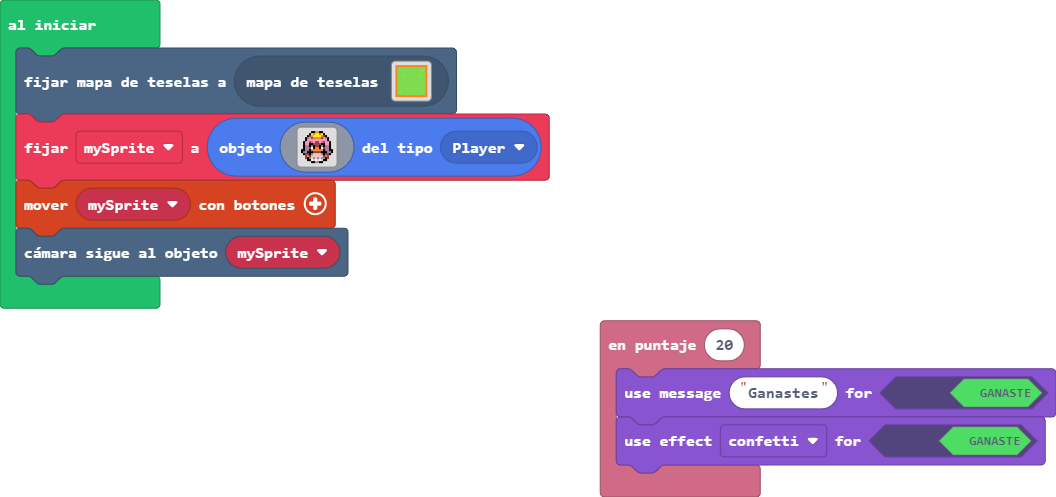
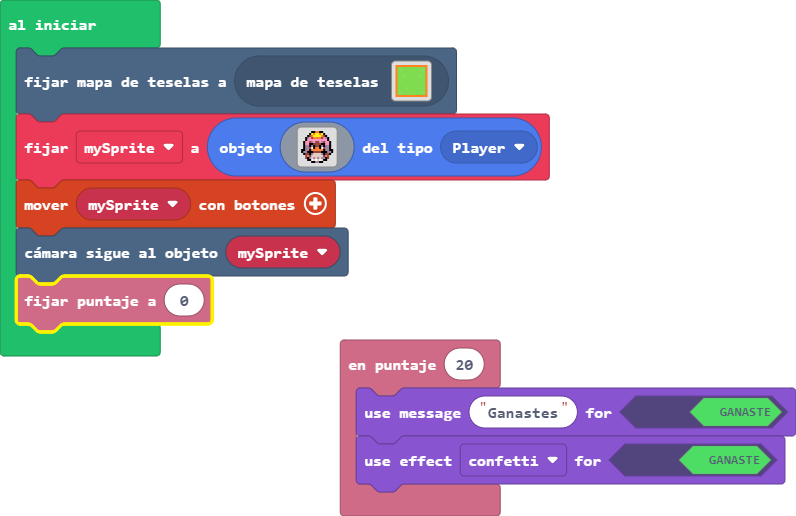
..

diff --git a/tilemap.g.ts b/tilemap.g.ts
@@ -24,6 +24,25 @@ namespace myTiles {
 . . . . . . . . . . . . . . . . 
 . . . . . . . . . . . . . . . . 
 `, [myTiles.transparency16,sprites.castle.tileGrass2,sprites.dungeon.hazardLava1,sprites.castle.tileGrass1], TileScale.Sixteen);
+            case "nivel1":
+            case "nivel1":return tiles.createTilemap(hex`1000100000000000000000000000000000000000000000000000000000000000000000000000000000000000000000000000000000000000000000000000000000000000000000000000000000000000000000000000000000000000000000000000000000000000000000000000000000000000000000000000000000000000000000000000000000000000000000000000000000000000000000000000000000000000000000000000000000000000000000000000000000000000000000000000000000000000000000000000000000000000000000000000000000000000000000000000000000000000000000000000000000000000000000000000000000000000`, img`
+. . . . . . . . . . . . . . . . 
+. . . . . . . . . . . . . . . . 
+. . . . . . . . . . . . . . . . 
+. . . . . . . . . . . . . . . . 
+. . . . . . . . . . . . . . . . 
+. . . . . . . . . . . . . . . . 
+. . . . . . . . . . . . . . . . 
+. . . . . . . . . . . . . . . . 
+. . . . . . . . . . . . . . . . 
+. . . . . . . . . . . . . . . . 
+. . . . . . . . . . . . . . . . 
+. . . . . . . . . . . . . . . . 
+. . . . . . . . . . . . . . . . 
+. . . . . . . . . . . . . . . . 
+. . . . . . . . . . . . . . . . 
+. . . . . . . . . . . . . . . . 
+`, [myTiles.transparency16], TileScale.Sixteen);
         }
         return null;
     })

diff --git a/main.ts b/main.ts
@@ -23,3 +23,4 @@ let mySprite = sprites.create(img`
     `, SpriteKind.Player)
 controller.moveSprite(mySprite)
 scene.cameraFollowSprite(mySprite)
+info.setScore(0)
